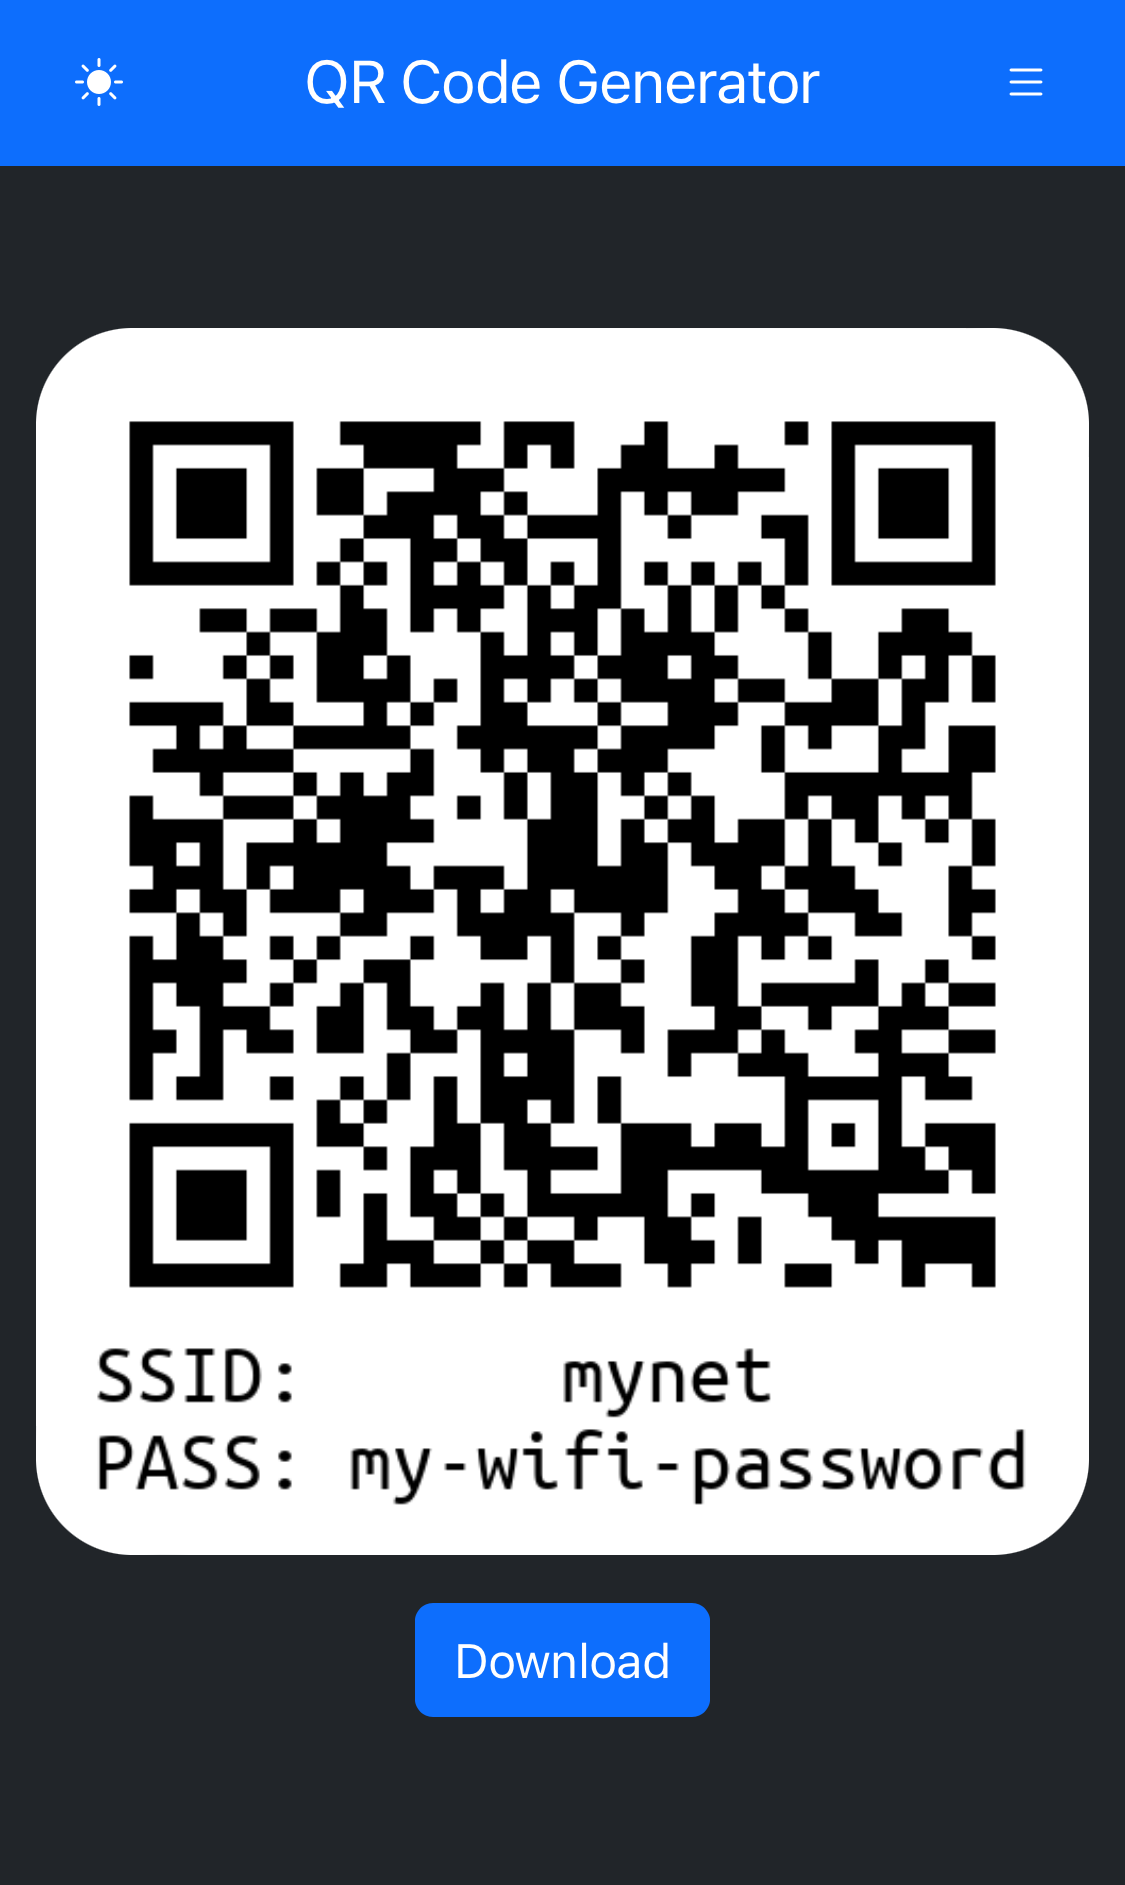
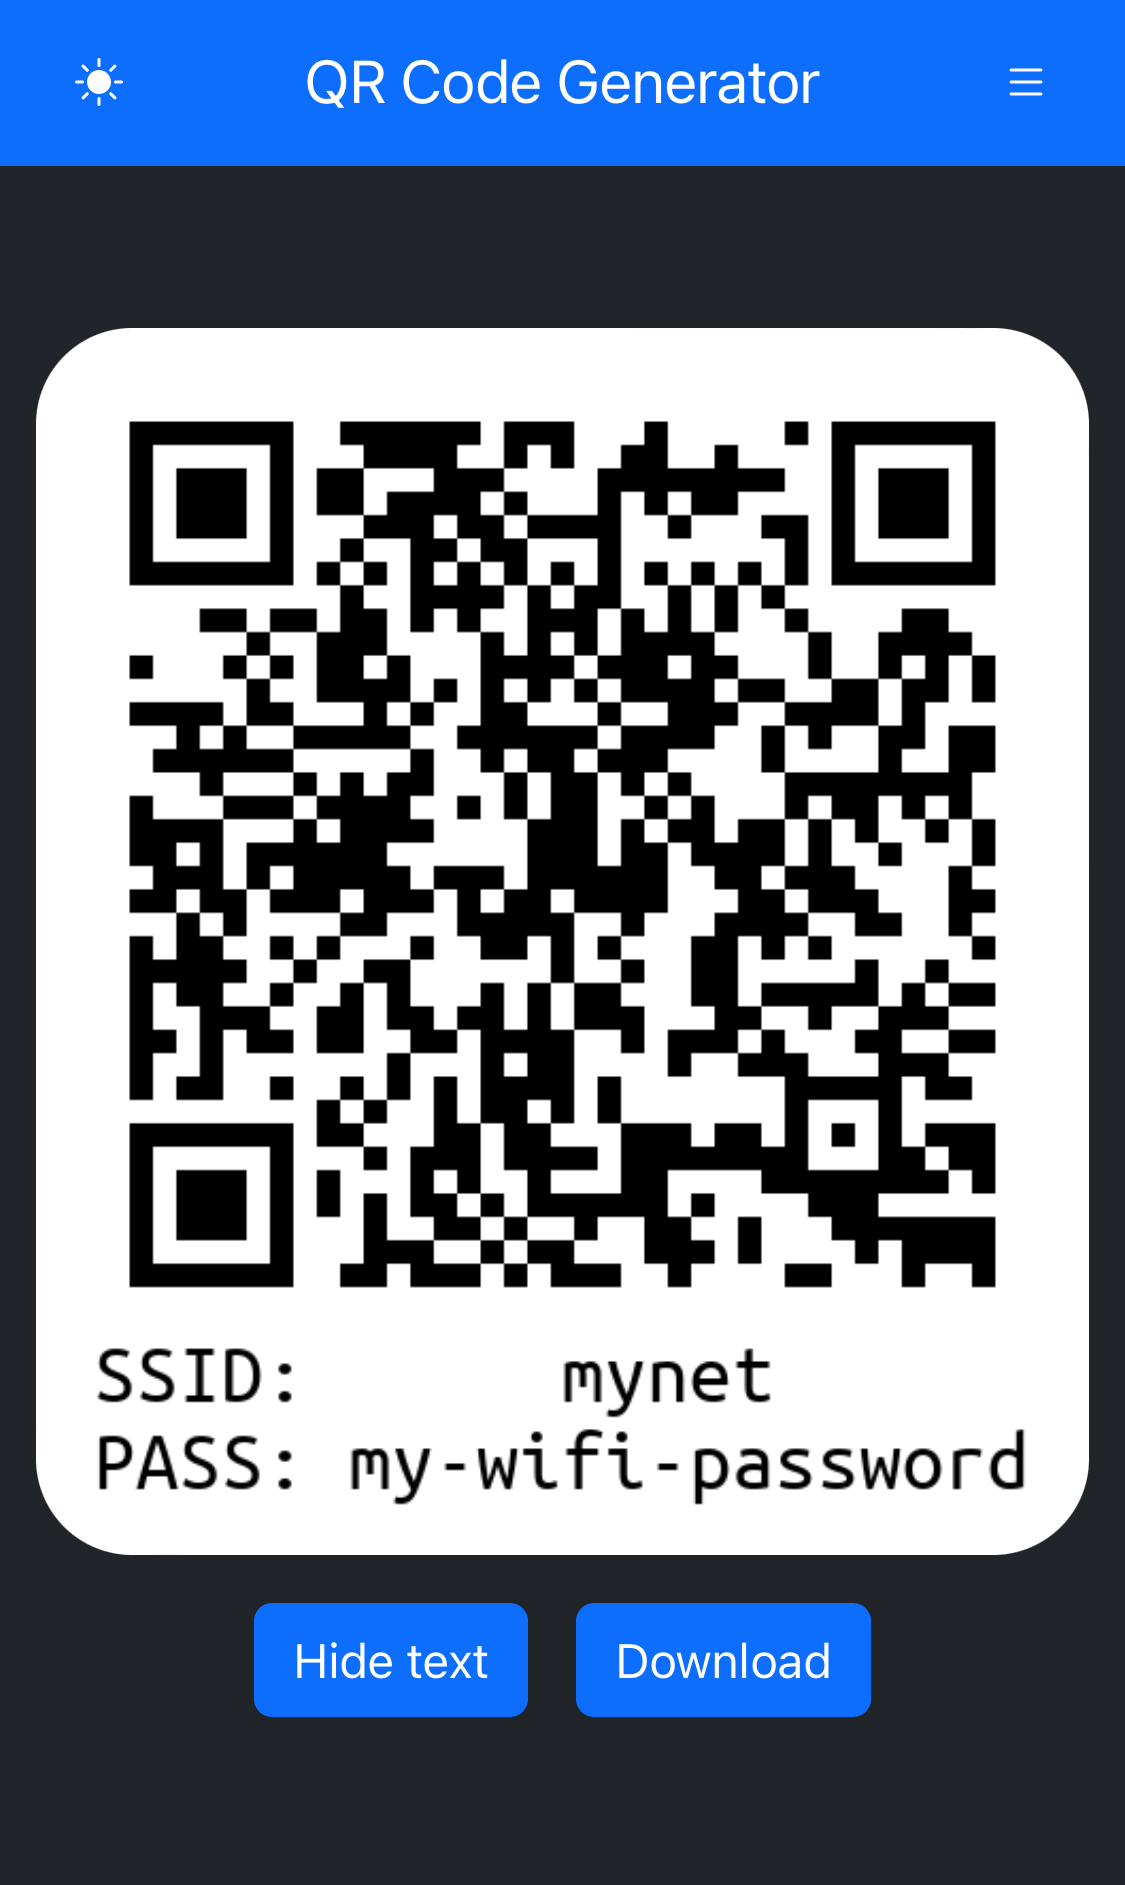
Release v1.2.0

Changed region(s): [[0.2178, 0.8308, 0.7778, 0.9231]]

diff --git a/changelog.md b/changelog.md
@@ -2,6 +2,10 @@
 
 ## v1
 
+### 1.2.0
+
+* Add button to hide/show QR code text caption
+
 ### 1.1.3
 
 * Bug fix: Add missing font to docker image
